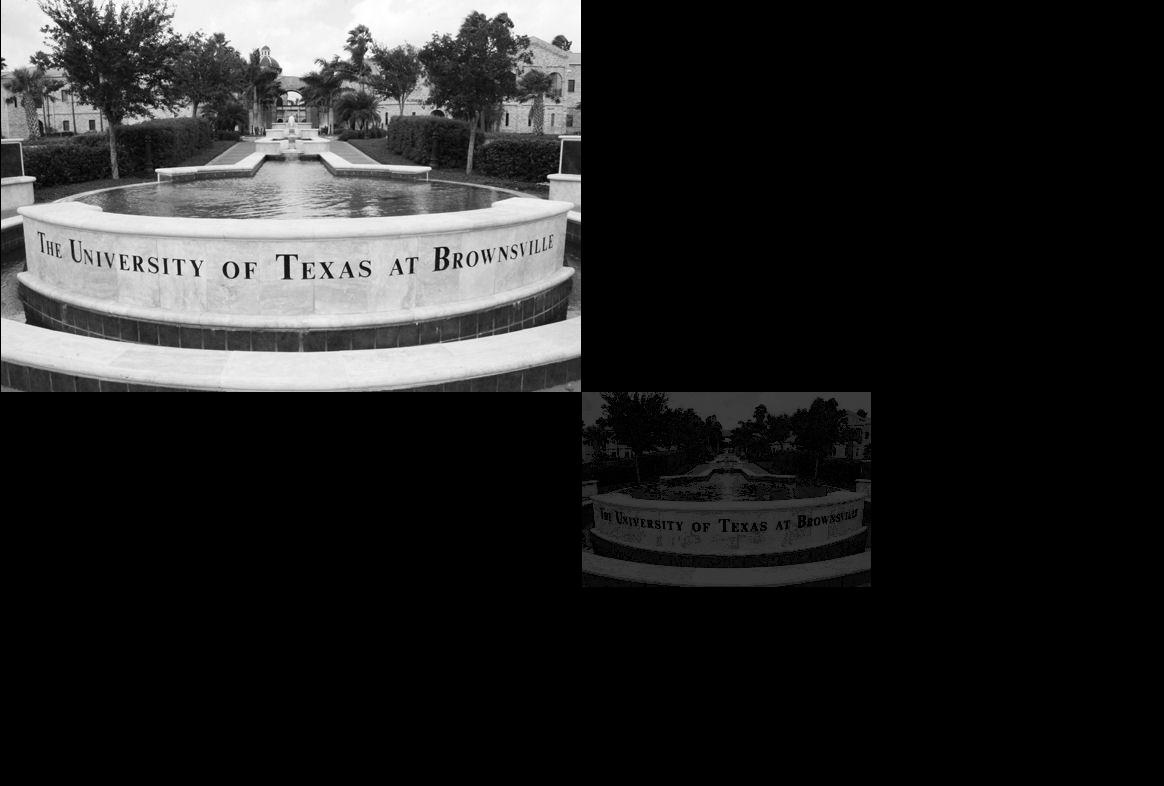
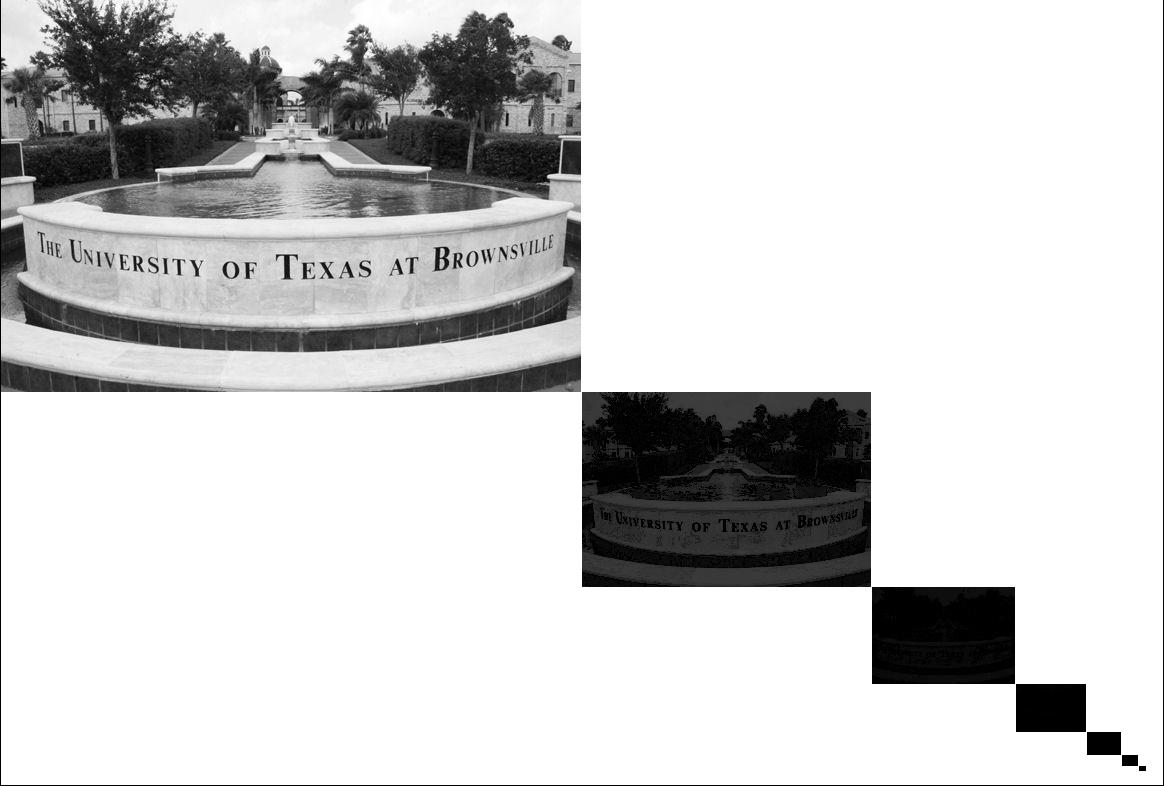
pyramid function complete

diff --git a/src/project6/Pyramid.java b/src/project6/Pyramid.java
@@ -10,7 +10,7 @@ package project6;
  * @author alexi
  */
 public class Pyramid {
-    
+    byte[][] zoomedInput;
     /*create the zoomed out image
     *takes an image and creates a zoomed out image by
     *taking the average of 4 pixels
@@ -53,15 +53,23 @@ public class Pyramid {
           index = addImage( input, output, index ).clone();
           levels--;
           counter++;
-         return pRecurse(input, output, levels, counter,index );
+         return pRecurse(input, output, levels, counter, index );
         }
-        else {
+        else if(counter == 1){
             //zoom out
-            byte[][] zoomedInput = zoomOut(input);
+            zoomedInput = zoomOut(input);
             index = addImage( zoomedInput, output, index ).clone();
             levels--;
             counter++;
-            return pRecurse(input, output, levels, counter,index );
+            return pRecurse(input, output, levels, counter, index );
+        }
+        else{
+             //zoom out
+            zoomedInput = zoomOut(zoomedInput);//pass in zoomed image
+            index = addImage( zoomedInput, output, index ).clone();
+            levels--;
+            counter++;
+            return pRecurse(input, output, levels, counter, index );
         }
         
     }
@@ -78,8 +86,8 @@ public class Pyramid {
             }
         }
         
-        index[0]= input.length - 1;//row index
-        index[1]= input[0].length - 1;//colum index
+        index[0]+= input.length - 1;//row index
+        index[1]+= input[0].length - 1;//colum index
         return index;
     }
     

diff --git a/src/project6/Project6.java b/src/project6/Project6.java
@@ -27,13 +27,19 @@ public class Project6 {
         byte[][] grayInput  = ImageIo.getGrayByteImageArray2DFromBufferedImage(grayImage);
         //create array to store zoomOut image values 
         byte[][] pyramidOutput  = new byte[(grayInput.length)*2][(grayInput[0].length)*2];
+        //set background to white
+         for (int r = 0; r < pyramidOutput.length - 1; r++)  {
+            for (int c = 1; c < pyramidOutput[0].length - 1; c++) {
+                 pyramidOutput[r][c]= (byte)  255;
+            }
+         }
         
         Pyramid pyramidObj = new Pyramid();
         //create and set starting index
         int [] index = {0,0};
        
         System.out.println("main___c: "+index[0]+" r: "+index[1]);
-        pyramidObj.pRecurse(grayInput, pyramidOutput, 2, 0,index );
+        pyramidObj.pRecurse(grayInput, pyramidOutput, 7, 0,index );
        
         // Output pyramid image
         BufferedImage pyramid = ImageIo.setGrayByteImageArray2DToBufferedImage(pyramidOutput);
